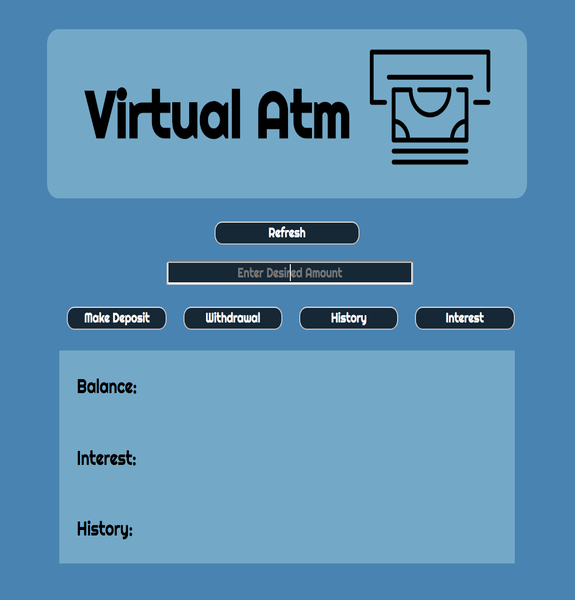
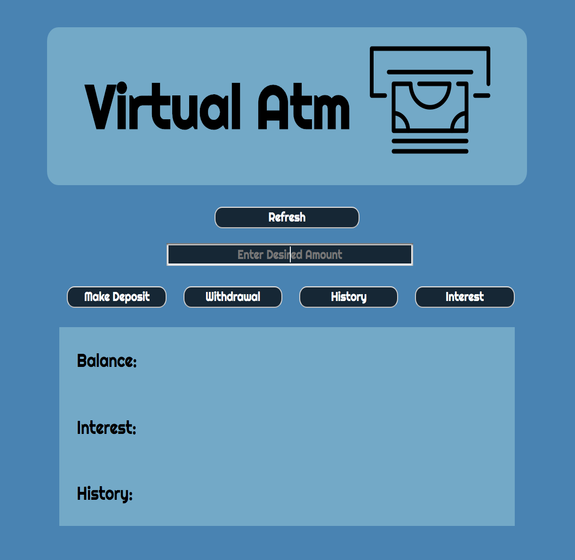
\

diff --git a/home/templates/home/portfolio_home.html b/home/templates/home/portfolio_home.html
@@ -83,7 +83,7 @@
                     <span>An ATM program made with JavaScript. Allows user to make deposits and withdrawals as well as keep track of 
                         transaction history / interest.
                     </span>
-                    <img name="atm" width="350" height="250">
+                    <img name="atm" width="260" height="270">
             </div>
 
             <div id="node_modal">
